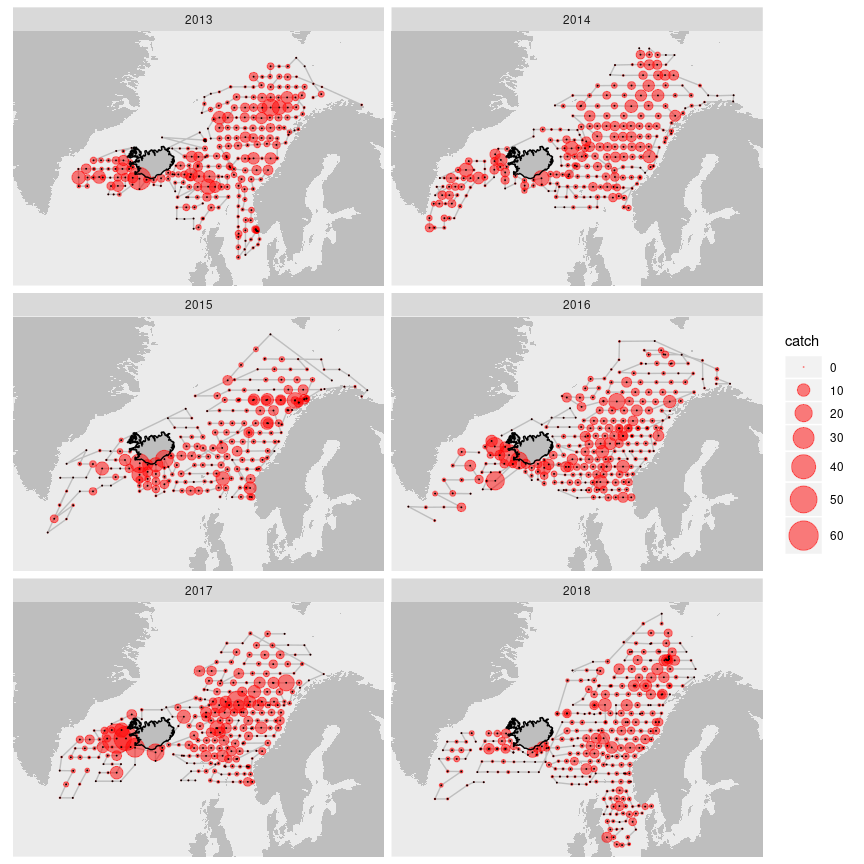
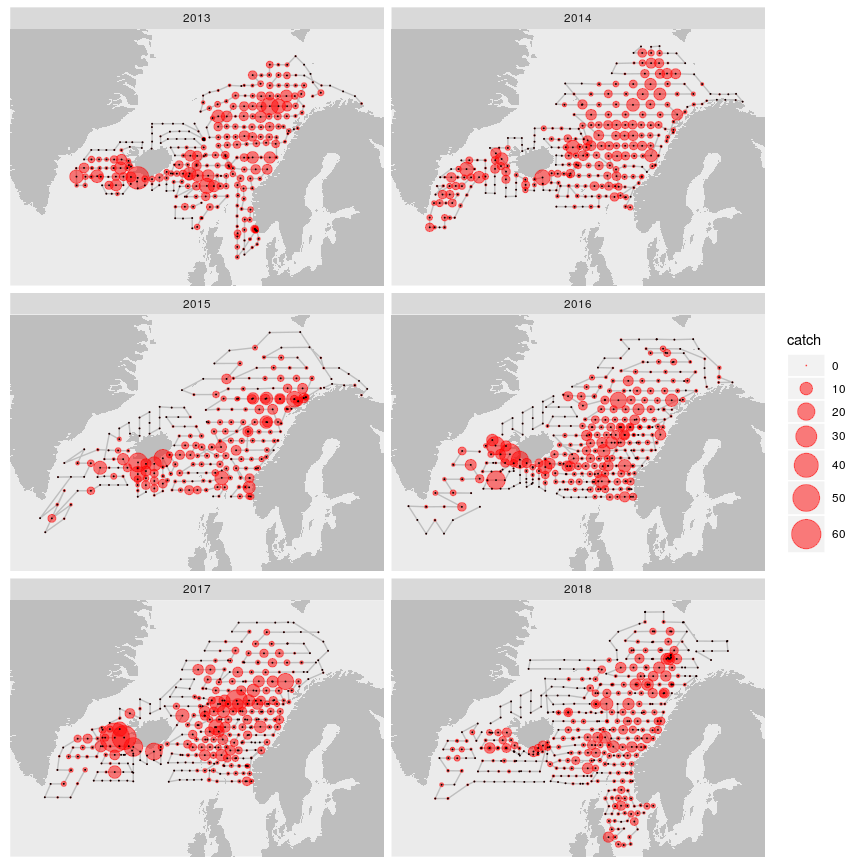
fix README

diff --git a/README.md b/README.md
@@ -1,13 +1,22 @@
+---
+output: 
+  html_document: 
+    fig_height: 9
+    fig_width: 9
+    keep_md: yes
+---
+
 ### Shaking hands with PGNAPES
 #### Einar Hjörleifsson
 #### 2019-08-16
+
+
 
 
 ```r
 library(tidyverse)
 library(pgnapes)
 library(maps)
-library(mapdata)
 ```
 
 **Connect to database**:
@@ -47,35 +56,31 @@ pgn_vessels(con)
 d <-
   pgn_logbook(con) %>%
   filter(year %in% 2013:2018,
-         month %in% 7:8) %>%
-  arrange(cruise, year, month, day, hour, min) %>% 
-  left_join(pgn_catch(con)) %>%
-  collect(n = Inf) %>%
-  mutate(catch = catch / 1000 / (towtime / 60)) %>%
-  filter(species %in% "MAC") %>% 
-  collect(n = Inf)
-st <-
-  d %>% 
-  select(cruise, year, lon, lat) %>% 
-  distinct()
+         month %in% 7:8,
+         sttype %in% c("PTRAWL", "TRAWL", "Multpelt", "PTrawl_Straight",
+                       "DeepTrawl", "Multpelt 832")) %>%
+  arrange(cruise, year, month, day, hour, min) %>%
+  left_join(pgn_catch(con) %>% 
+              filter(species %in% "MAC")) %>%
+  collect(n = Inf) %>% 
+  mutate(catch = catch / 1000 / (towtime / 60),
+         catch = replace_na(catch, 0))
 ```
 
 **Map catch**:
 
 
 ```r
-xlim <- range(st$lon)
-ylim <- range(st$lat)
-m <- map_data("worldHires", xlim = xlim, ylim = ylim)
-
+xlim <- range(d$lon)
+ylim <- range(d$lat)
+m <- map_data("world", xlim = xlim, ylim = ylim)
 d %>% 
   ggplot(aes(lon, lat)) +
   geom_polygon(data = m, aes(long, lat, group = group), fill = "grey") +
-  geom_path(data = st, aes(group = cruise), colour = "grey") +
+  geom_path(aes(group = cruise), colour = "grey") +
   geom_point(aes(size = catch), colour = "red", alpha = 0.5) +
   scale_size_area(max_size = 10) +
-  geom_point(data = st, size = 0.01) +
-  geom_path(data = geo::island) +
+  geom_point(size = 0.01) +
   facet_wrap(~ year, ncol = 2) +
   coord_quickmap(xlim = xlim, ylim = ylim) +
   scale_x_continuous(NULL, NULL) +
